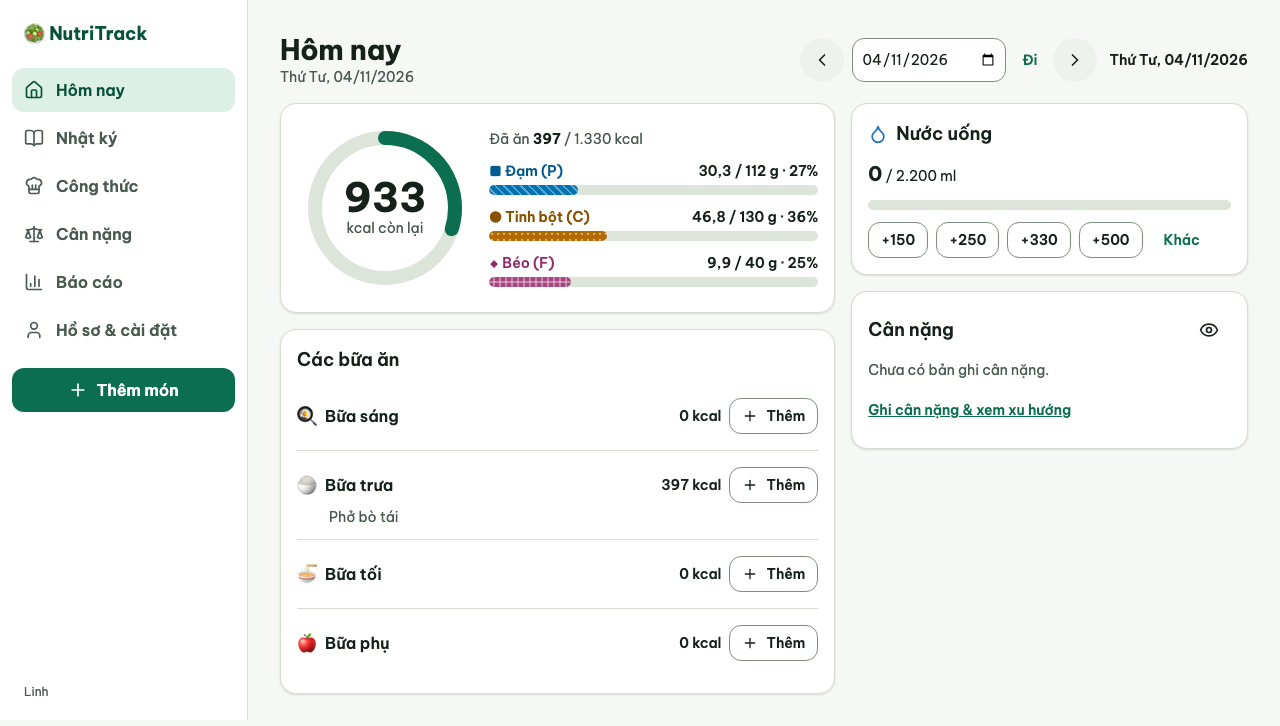
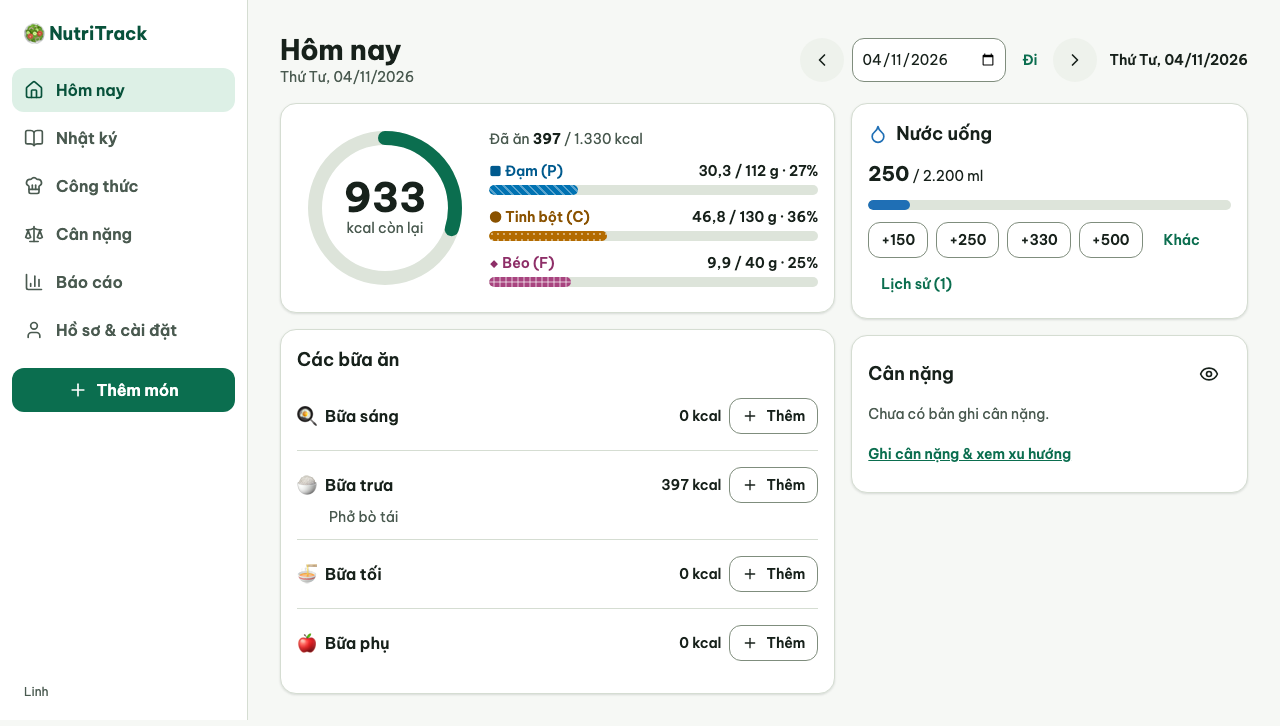
test(e2e): register→onboarding→log→dashboard flow, app screenshots, traceability, README (QLD-19)

diff --git a/e2e/smoke.spec.ts b/e2e/smoke.spec.ts
@@ -1,7 +1,46 @@
-import { test, expect } from "@playwright/test";
+import { expect, test } from "@playwright/test";
 
-// Skeleton: full register -> onboarding -> log meal -> dashboard flow is extended by QA (QLD-4).
-test("trang đăng nhập hiển thị", async ({ page }) => {
-  await page.goto("/login");
-  await expect(page.getByRole("heading", { name: /đăng nhập/i })).toBeVisible();
+const SHOTS = process.env.SHOTS_DIR; // when set, also capture screenshots (light/dark × mobile/desktop)
+
+test("đăng ký → onboarding → ghi bữa → dashboard", async ({ page }) => {
+  await page.emulateMedia({ colorScheme: process.env.SCHEME === "dark" ? "dark" : "light" });
+  const email = `e2e-${Date.now()}@example.test`;
+  await page.goto("/dang-ky");
+  await expect(page.getByRole("heading", { name: /tạo tài khoản/i })).toBeVisible();
+  await page.getByLabel("Email").fill(email);
+  await page.getByLabel("Mật khẩu").fill("matkhau123");
+  await page.getByRole("checkbox").check();
+  await page.getByRole("button", { name: /tạo tài khoản/i }).click();
+
+  await expect(page.getByRole("heading", { name: /mục tiêu của bạn/i })).toBeVisible();
+  await page.getByRole("button", { name: "Tiếp tục" }).click();
+  await page.getByLabel("Tên hiển thị").fill("Linh");
+  await page.getByLabel("Ngày sinh").fill("1998-01-01");
+  await page.getByLabel("Chiều cao").fill("162");
+  await page.getByLabel("Cân nặng hiện tại").fill("62,4");
+  await page.getByRole("button", { name: "Tiếp tục" }).click();
+  await expect(page.getByText(/Mục tiêu mỗi ngày/)).toBeVisible();
+  await page.getByRole("button", { name: "Tiếp tục" }).click();
+  await page.getByRole("button", { name: "Hoàn tất" }).click();
+
+  await expect(page.getByRole("heading", { name: "Hôm nay" })).toBeVisible();
+  await expect(page.getByText("Chưa có bữa ăn nào")).toBeVisible();
+
+  await page.goto("/nhat-ky/them?meal=lunch");
+  await page.getByLabel("Tìm món ăn").fill("pho bo");
+  await page.getByRole("button", { name: /Phở bò/ }).first().click();
+  await page.getByRole("button", { name: "Thêm vào nhật ký" }).click();
+  await expect(page.getByText(/Đã thêm/)).toBeVisible();
+
+  await page.goto("/hom-nay");
+  await expect(page.getByText(/kcal còn lại|kcal vượt/)).toBeVisible();
+  await expect(page.getByRole("progressbar", { name: /Đạm/ })).toBeVisible();
+
+  if (SHOTS) {
+    await page.getByRole("button", { name: "Thêm 250 ml" }).click();
+    for (const [name, path] of [["hom-nay", "/hom-nay"], ["nhat-ky", "/nhat-ky"], ["them-mon", "/nhat-ky/them"], ["bao-cao", "/bao-cao"], ["can-nang", "/can-nang"], ["cong-thuc", "/cong-thuc/moi"], ["ho-so", "/ho-so"]] as const) {
+      await page.goto(path);
+      await page.screenshot({ path: `${SHOTS}/${name}-${test.info().project.name}-${process.env.SCHEME ?? "light"}.png`, fullPage: true });
+    }
+  }
 });

diff --git a/src/server/rate-limit.ts b/src/server/rate-limit.ts
@@ -2,6 +2,7 @@
 const hits = new Map<string, number[]>();
 
 export function rateLimit(key: string, max: number, windowMs: number): boolean {
+  if (process.env.DISABLE_RATE_LIMIT === "1") return true; // local e2e only; never set in production
   const now = Date.now();
   const recent = (hits.get(key) ?? []).filter((t) => now - t < windowMs);
   if (recent.length >= max) {

diff --git a/README.md b/README.md
@@ -89,4 +89,4 @@ Cần `docker compose up -d` và `pnpm dev:setup` trước. Kiểm tra `DATABASE
 
 ### Lưu ý
 - Nhắc nhở chỉ hoạt động khi tab đang mở (ADR §2.6); reset mật khẩu gửi mail vào Mailpit (http://localhost:8025).
-- Truy vết yêu cầu: [`docs/product/TRACEABILITY.md`](docs/product/TRACEABILITY.md). Ảnh chụp màn hình: `docs/screenshots/app/`.
+- Truy vết yêu cầu: [`docs/product/TRACEABILITY.md`](docs/product/TRACEABILITY.md). Ảnh chụp màn hình app thật (light/dark × mobile/desktop): `docs/screenshots/app-ui/`; ảnh mockup thiết kế: `docs/screenshots/app/`. Chạy kèm DB: `DISABLE_RATE_LIMIT=1` chỉ dùng cho e2e local.
